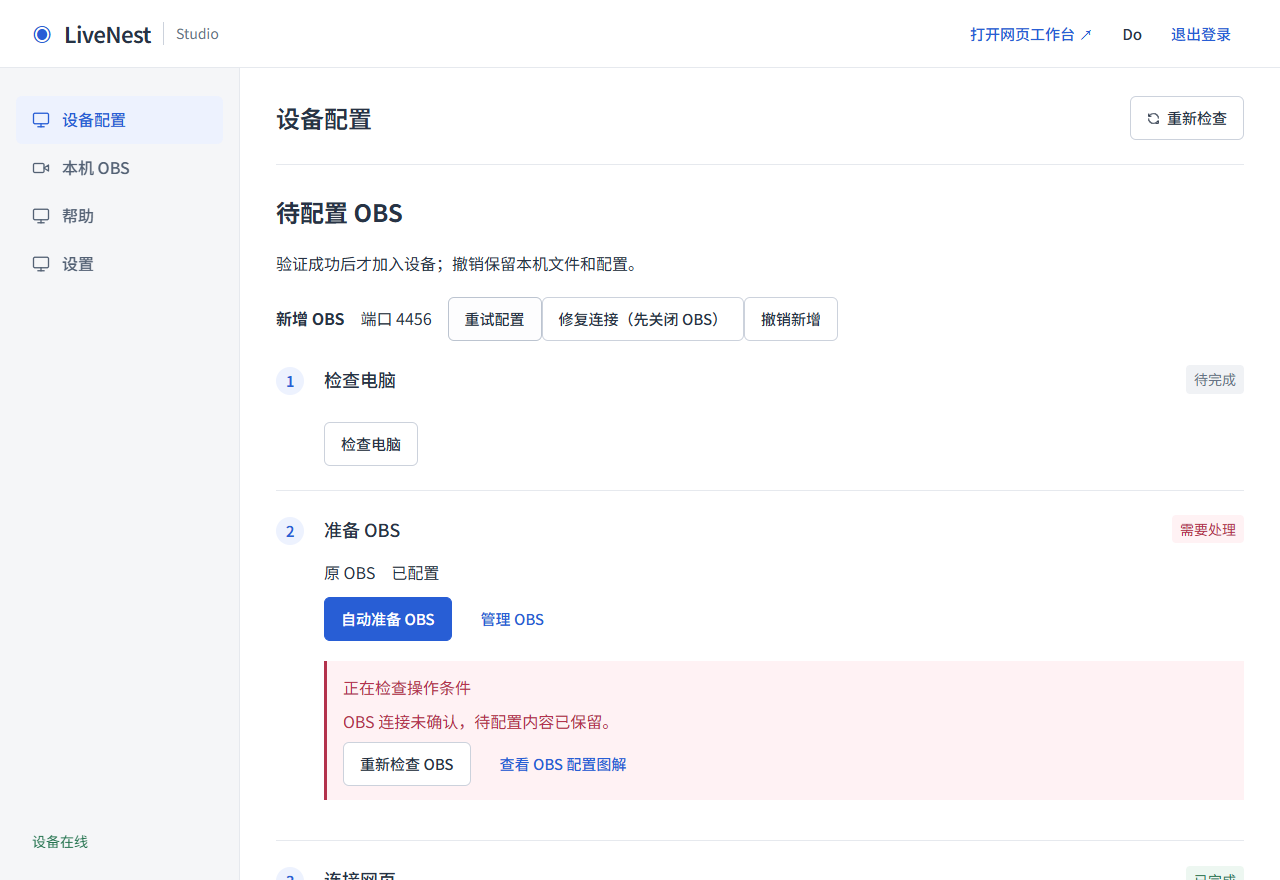
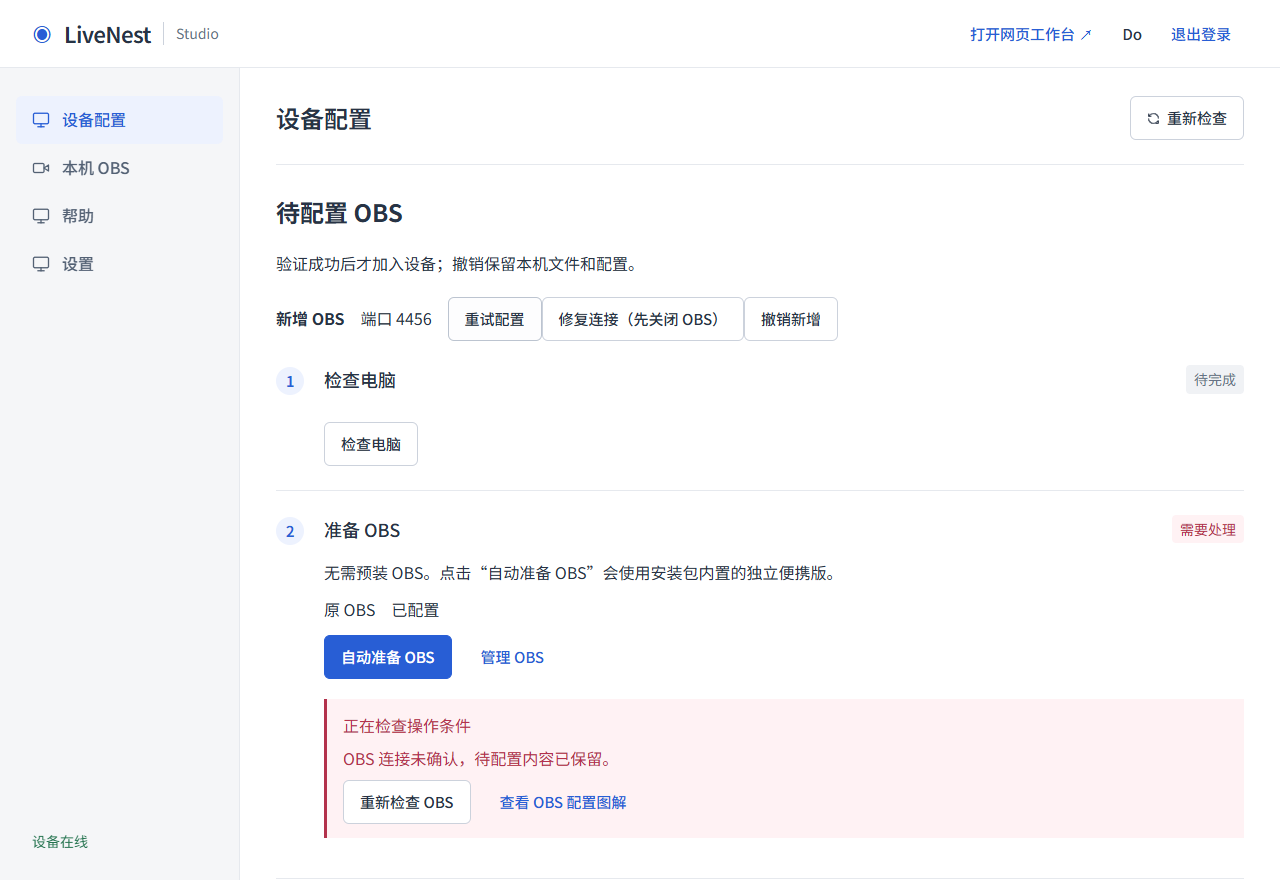
fix(device)：支持电脑移除重配并明确 OBS 缺失提示

diff --git a/src/cloud/agents.ts b/src/cloud/agents.ts
@@ -28,25 +28,30 @@ export async function createPairing(id: string, name: string) {
   });
   return { agentId: id, code, expiresInSeconds: 600 };
 }
-/** Agent 在本地生成并先保存凭据，配对响应丢失后可凭同一凭据重试。 */
+/** Agent 先保存凭据；响应丢失可重试，已撤销身份必须同时验证新邀请与旧凭据。 */
 export async function pairAgent(id: string, code: string, token: string) {
   const store = cloudStore();
   if (!/^[a-f0-9]{64}$/.test(code) || !/^[a-f0-9]{64}$/.test(token)) throw new AppError("AGENT_AUTH", "设备配对失败。", 401);
   return transaction(store, async () => {
     const registry = await store.read<Registry>("agents.json"); const agent = registry?.agents.find(a => a.id === id);
-    if (!agent || agent.revoked) throw new AppError("AGENT_AUTH", "设备配对失败。", 401);
+    if (!agent) throw new AppError("AGENT_AUTH", "设备配对失败。", 401);
+    if (agent.revoked) {
+      if (!matches(code, agent.pairingHash) || (agent.pairingExpires || 0) < Date.now() || (agent.tokenHash && !matches(token, agent.tokenHash))) throw new AppError("AGENT_AUTH", "恢复配对需要新的邀请和原电脑身份，请在原 Windows 账户的 LiveNest 中重试。", 401);
+      agent.revoked = false; agent.tokenHash = digest(token); delete agent.pairingHash; delete agent.pairingExpires;
+      await store.write("agents.json", registry); return { protocol: PROTOCOL };
+    }
     if (matches(token, agent.tokenHash)) return { protocol: PROTOCOL };
     if (agent.tokenHash || !matches(code, agent.pairingHash) || (agent.pairingExpires || 0) < Date.now()) throw new AppError("AGENT_AUTH", "配对码无效或已过期。", 401);
     agent.tokenHash = digest(token); delete agent.pairingHash; delete agent.pairingExpires;
     await store.write("agents.json", registry); return { protocol: PROTOCOL };
   });
 }
-/** 仅续期尚未认领的邀请，不替换已配对设备的凭据。 */
+/** 未认领邀请可续期；已移除设备只发恢复邀请，必须由原凭据认领。 */
 export async function renewPairing(id: string) {
   agentStore(id); const store = cloudStore(); const code = randomBytes(32).toString("hex");
   await transaction(store, async () => {
     const registry = await store.read<Registry>("agents.json"); const agent = registry?.agents.find(a => a.id === id);
-    if (!agent || agent.revoked || agent.tokenHash) throw new AppError("AGENT_BOUND", "只能重新生成尚未使用的配对信息。", 409);
+    if (!agent || (!agent.revoked && agent.tokenHash)) throw new AppError("AGENT_BOUND", "请先移除设备，再生成恢复配对信息。", 409);
     agent.pairingHash = digest(code); agent.pairingExpires = Date.now() + 600_000;
     await store.write("agents.json", registry);
   });
@@ -110,11 +115,21 @@ export async function requireTarget(agentId: string, instanceId: string, online 
 }
 /** 读取由设备上报的状态；调用者须额外标记过期和命令交付状态。 */
 export async function snapshotFor(agentId: string, instanceId: string) { return (await agentStore(agentId).read<Heartbeat>("heartbeat.json"))?.snapshots.find(s => s.instance.id === instanceId); }
-/** 撤销仅阻止新通信；不假装能停止已经离线执行的 OBS。 */
+/** 在派发锁内重新检查撤销，避免请求认证后移除设备的竞争。 */
+export async function assertAgentActive(id: string) {
+  const registry = await cloudStore().read<Registry>("agents.json");
+  if (!registry?.agents.some(a => a.id === id && !a.revoked)) throw new AppError("AGENT_AUTH", "设备已移除，请从网页恢复配对。", 401);
+}
+/** 撤销与派发互斥，过期从未派发的任务；已送达任务和所有配置保留待核对。 */
 export async function revokeAgent(id: string) {
-  const store = cloudStore(); await transaction(store, async () => {
-    const registry = await store.read<Registry>("agents.json"); const agent = registry?.agents.find(a => a.id === id);
-    if (!agent) throw new AppError("AGENT", "设备不存在。", 404);
-    agent.revoked = true; await store.write("agents.json", registry);
-  });
+  const local = agentStore(id); const store = cloudStore(); await transaction(local, async () => {
+    await transaction(store, async () => {
+      const registry = await store.read<Registry>("agents.json"); const agent = registry?.agents.find(a => a.id === id);
+      if (!agent) throw new AppError("AGENT", "设备不存在。", 404);
+      delete agent.pairingHash; delete agent.pairingExpires;
+      agent.revoked = true; await store.write("agents.json", registry);
+    });
+    const queue = await local.read<{ records: import("./tasks").TaskRecord[] }>("tasks.json");
+    if (queue) { for (const task of queue.records) if (task.status === "queued") { task.status = "expired"; task.updatedAt = Date.now(); task.message = "设备已移除，此任务尚未派发。"; } await local.write("tasks.json", queue); }
+  }, "tasks.lock");
 }

diff --git a/desktop/app/page.tsx b/desktop/app/page.tsx
@@ -63,8 +63,8 @@ function Desktop({ logout }: { logout: () => Promise<void> }) {
     {!state && <p role="status">正在读取本机配置…</p>}
     {state && page === "设备配置" && <div className="setup-list">
       {step(1, "检查电脑", computer, <><div className="check-list">{state.checks.map(c => <div key={c.id}><div className="check-row"><span>{c.label}</span><span className={"setup-state " + c.status}>{c.status === "ready" ? "正常" : c.status === "pending" ? "待检查" : "需要处理"}</span></div>{c.message && <p className="check-message">{c.message}</p>}</div>)}</div><button disabled={busy} onClick={() => void act("check")}>检查电脑</button></>)}
-      {step(2, "准备 OBS", obs, <><div>{instances.length ? instances.map(i => <div key={i.id}>{i.name}　{i.initialized ? "已配置" : "尚未完成"}</div>) : "尚未配置 OBS"}</div><div className="desktop-actions"><button className="btn-primary" disabled={busy} onClick={() => void act("prepare")}>{activity?.step === 2 && activity.status === "running" ? "正在准备 OBS…" : "自动准备 OBS"}</button><button className="btn-ghost" onClick={() => setPage("本机 OBS")}>管理 OBS</button></div></>)}
-      {step(3, "连接网页", state.online, <>{!state.paired ? <><button onClick={() => void act("web")}>打开网页，添加直播电脑 ↗</button><label className="field-group">配对信息<textarea value={invitation} onChange={e => setInvitation(e.target.value)} placeholder="粘贴网页生成的配对信息" /></label><button className="btn-primary" disabled={busy || !obs || !invitation.trim()} onClick={() => void act("pair", { invitation })}>连接网页</button></> : <><p>{state.online ? "本机已连接网页工作台" : "设备已配对，等待连接"}</p><button disabled={busy} onClick={() => void act("start")}>重新连接</button></> }</>)}
+      {step(2, "准备 OBS", obs, <><p>无需预装 OBS。点击“自动准备 OBS”会使用安装包内置的独立便携版。</p><div>{instances.length ? instances.map(i => <div key={i.id}>{i.name}　{i.initialized ? "已配置" : "尚未完成"}</div>) : "尚未配置 OBS"}</div><div className="desktop-actions"><button className="btn-primary" disabled={busy} onClick={() => void act("prepare")}>{activity?.step === 2 && activity.status === "running" ? "正在准备 OBS…" : "自动准备 OBS"}</button><button className="btn-ghost" onClick={() => setPage("本机 OBS")}>管理 OBS</button></div></>)}
+      {step(3, "连接网页", state.online, <>{!state.paired ? <><button onClick={() => void act("web")}>打开网页，添加直播电脑 ↗</button><label className="field-group">配对信息<textarea value={invitation} onChange={e => setInvitation(e.target.value)} placeholder="粘贴网页生成的配对信息" /></label><button className="btn-primary" disabled={busy || !obs || !invitation.trim()} onClick={() => void act("pair", { invitation })}>连接网页</button></> : <><p>{state.online ? "本机已连接网页工作台" : "设备已配对，等待连接"}</p><button disabled={busy} onClick={() => void act("start")}>重新连接</button><details><summary>重新配对</summary><p>网页移除后，在“添加直播电脑”中选择原电脑生成恢复邀请。设备 ID：{state.agentId}。原 OBS、素材和频道授权会保留。</p><label className="field-group">恢复配对信息<textarea value={invitation} onChange={e => setInvitation(e.target.value)} placeholder="粘贴原电脑的恢复配对信息" /></label><button disabled={busy || !invitation.trim()} onClick={() => void act("pair", { invitation })}>恢复配对并连接</button></details></> }</>)}
       {step(4, "连接频道", channel, <><div>{fresh.map(s => <div key={s.instance.id}>{s.instance.name}　{s.dashboard.youtube.connected ? s.dashboard.youtube.channel : "尚未授权"}</div>)}</div><button disabled={!state.paired} onClick={() => void act("web")}>前往网页授权 ↗</button></>)}
       {step(5, "准备素材", media, <><div>{fresh.map(s => <div key={s.instance.id}>{s.instance.name}　视频 {s.dashboard.media.videos.length} · 音乐 {s.dashboard.media.music.length}</div>)}</div><button disabled={!state.paired} onClick={() => void act("web")}>前往网页选择素材 ↗</button></>)}
       {step(6, "完成检查", complete, <><p>{complete ? "配置就绪，可以前往网页工作台。" : "完成以上步骤后，重新检查本机与网页连接。"}</p><button className="btn-primary" disabled={!complete} onClick={() => void act("web")}>打开网页工作台 ↗</button></>)}

diff --git a/tests/cloud.test.ts b/tests/cloud.test.ts
@@ -4,7 +4,7 @@ import { mkdtemp, rm, readFile } from "node:fs/promises";
 import path from "node:path";
 import os from "node:os";
 import { beforeEach, afterEach, expect, it, vi } from "vitest";
-import { createPairing, pairAgent, openSession, heartbeatAgent, authenticateAgent, revokeAgent, agentStore } from "@/cloud/agents";
+import { createPairing, pairAgent, openSession, heartbeatAgent, authenticateAgent, revokeAgent, agentStore, renewPairing, listAgents } from "@/cloud/agents";
 import { enqueue, pollTasks, readTask, reportTasks } from "@/cloud/tasks";
 import { claimChannel } from "@/cloud/bindings";
 import { remoteDashboard, target } from "@/server/remote";
@@ -63,6 +63,40 @@ it("revokes device credentials and refuses copied active sessions", async () => 
   expect((await authenticateAgent(request)).id).toBe("studio_a");
   await expect(openSession("studio_a", randomUUID(), [{ id: "main", name: "主 OBS" }])).rejects.toMatchObject({ status: 409 });
   await revokeAgent("studio_a"); await expect(authenticateAgent(request)).rejects.toMatchObject({ status: 401 });
+});
+/** 移除只隔离控制，不清空正在执行的任务、维护凭据和频道归属。 */
+it("removes a PC and restores the original identity without replaying unsent work", async () => {
+  const a = await connect("studio_a"); await claimChannel(destination, "UC_preserved", true);
+  const sent = await enqueue(destination, "alice", { kind: "upload-status", uploadId: randomUUID() }); await pollTasks("studio_a");
+  const queued = await enqueue(destination, "alice", { kind: "control", input: { action: "launch" } });
+  await agentStore("studio_a").write("maintenance.json", { token: "d".repeat(64), activities: { "upload:fixture": 1 } });
+  await revokeAgent("studio_a"); await revokeAgent("studio_a");
+  expect((await listAgents())[0]).toMatchObject({ revoked: true, online: false, instances: [{ id: "main" }] });
+  expect((await readTask("studio_a", queued.id))?.status).toBe("expired");
+  expect((await readTask("studio_a", sent.id))?.status).toBe("delivering");
+  await expect(pollTasks("studio_a")).rejects.toMatchObject({ status: 401 });
+  const invite = await renewPairing("studio_a");
+  await expect(pairAgent("studio_a", invite.code, "c".repeat(64))).rejects.toMatchObject({ status: 401 });
+  await pairAgent("studio_a", invite.code, a.token); await pairAgent("studio_a", invite.code, a.token);
+  expect((await listAgents())[0].revoked).toBe(false);
+  expect((await agentStore("studio_a").read<{ token: string }>("maintenance.json"))?.token).toBe("d".repeat(64));
+  await connect("studio_b"); await expect(claimChannel({ agentId: "studio_b", instanceId: "main" }, "UC_preserved")).rejects.toMatchObject({ status: 409 });
+  expect((await pollTasks("studio_a")).map(t => t.id)).toEqual([sent.id]);
+});
+/** 旧配对码和无有效恢复邀请的旧凭据都不能自动恢复已撤销电脑。 */
+it("requires a fresh unexpired recovery invitation and invalidates it on removal", async () => {
+  const old = await createPairing("studio_a", "A"); const key = "b".repeat(64); await pairAgent("studio_a", old.code, key);
+  await revokeAgent("studio_a"); await expect(pairAgent("studio_a", old.code, key)).rejects.toMatchObject({ status: 401 });
+  const first = await renewPairing("studio_a"); const second = await renewPairing("studio_a");
+  await expect(pairAgent("studio_a", first.code, key)).rejects.toMatchObject({ status: 401 });
+  vi.setSystemTime(Date.now() + 601_000); await expect(pairAgent("studio_a", second.code, key)).rejects.toMatchObject({ status: 401 });
+  const latest = await renewPairing("studio_a"); await revokeAgent("studio_a"); await expect(pairAgent("studio_a", latest.code, key)).rejects.toMatchObject({ status: 401 });
+});
+/** 从未认领的空设备也可移除并恢复，不要求不存在的旧 token。 */
+it("recovers a removed unclaimed invitation without creating duplicate device IDs", async () => {
+  await createPairing("studio_a", "A"); await revokeAgent("studio_a"); const next = await renewPairing("studio_a");
+  await pairAgent("studio_a", next.code, "b".repeat(64)); expect(await listAgents()).toHaveLength(1);
+  await expect(renewPairing("studio_a")).rejects.toMatchObject({ status: 409 });
 });
 it("reserves global channel ownership permanently even if the owning device goes offline", async () => {
   await connect("studio_a"); await connect("studio_b"); await claimChannel(destination, "UC_fixture", false);

diff --git a/electron/obs-setup.ts b/electron/obs-setup.ts
@@ -1,5 +1,5 @@
 /** 初始化自有便携 OBS；重复操作保留已有场景和设置，绝不自动推流。 */
-import { mkdir, readFile, writeFile, access, readdir } from "node:fs/promises";
+import { mkdir, readFile, writeFile, access, readdir, stat } from "node:fs/promises";
 import { createServer } from "node:net";
 import { randomBytes } from "node:crypto";
 import { execFile } from "node:child_process";
@@ -41,19 +41,29 @@ export async function newInstance(settings: Settings): Promise<DesktopInstance> 
 }
 /** 仅生成缺失的默认文件，已有配置保持不变。 */
 async function seed(filename: string, value: string) { await mkdir(path.dirname(filename), { recursive: true }); await writeFile(filename, value, { flag: "wx" }).catch(e => { if (e.code !== "EEXIST") throw e; }); }
+/** 区分安装包资源与手动 OBS 路径；提前报可操作错误，不等待 WebSocket 超时。 */
+export async function requireObsFile(filename: string, message: string) {
+  try { if (!(await stat(filename)).isFile()) throw new Error(); await access(filename); }
+  catch { throw new Error(message); }
+}
 /** 解压固定官方包，便携配置不影响用户其他 OBS。 */
 export async function prepareFiles(instance: DesktopInstance, resources: string, report: (stage: string) => void = () => {}) {
-  if (!instance.managed) return;
+  if (!instance.managed) { await requireObsFile(instance.exe, "找不到手动选择的 obs64.exe，或没有读取权限。请恢复该专用 OBS；电脑未安装 OBS 时可撤销此候选，再点击“自动准备 OBS”，无需预装。"); return; }
   report("正在准备独立 OBS 目录");
-  const root = path.resolve(instance.exe, "../../.."); await mkdir(root, { recursive: true });
+  const root = path.resolve(instance.exe, "../../..");
+  const extracted = await access(path.join(root, ".extracted")).then(() => true, () => false);
+  if (!extracted) await requireObsFile(path.join(resources, "vendor", "obs.zip"), "安装包内置 OBS 资源缺失或不可读，请重新安装完整 LiveNest 安装包后重试。无需另行安装 OBS，已有配置会保留。");
+  await mkdir(root, { recursive: true });
   const owner = path.join(root, ".livenest-owner");
   try { if (await readFile(owner, "utf8") !== instance.id) throw new Error("OBS 目录归属不匹配。"); }
   catch (e) { if ((e as NodeJS.ErrnoException).code !== "ENOENT") throw e; if ((await readdir(root)).length) throw new Error("OBS 目录已有其他文件，拒绝自动接管，请选择独立数据目录。"); await writeFile(owner, instance.id, { flag: "wx" }); }
-  if (!await access(path.join(root, ".extracted")).then(() => true, () => false)) {
+  if (!extracted) {
     report("正在解压 OBS（首次准备可能需要几分钟）");
     await exec("powershell.exe", ["-NoProfile", "-NonInteractive", "-Command", "$ErrorActionPreference='Stop'; Expand-Archive -LiteralPath $env:LN_OBS_ZIP -DestinationPath $env:LN_OBS_ROOT -Force"], { windowsHide: true, timeout: 180_000, env: { ...process.env, LN_OBS_ZIP: path.join(resources, "vendor", "obs.zip"), LN_OBS_ROOT: root } }).catch(e => { throw new Error(e.killed ? "OBS 解压超过 3 分钟，请检查磁盘空间、目录权限和系统负载后重试。" : "OBS 解压失败，请检查数据目录权限、磁盘空间及安装包是否完整后重试。"); });
+    await requireObsFile(instance.exe, "OBS 解压未完成，未找到 obs64.exe。请检查安装包完整性、磁盘空间和安全软件拦截记录后重试；候选配置已保留。");
     await writeFile(path.join(root, ".extracted"), "32.2.2");
   }
+  await requireObsFile(instance.exe, "已配置的便携 OBS 程序缺失或不可读，请恢复原目录中的 obs64.exe，并检查安全软件拦截记录。为保护原场景和授权，没有覆盖已有 OBS。");
   report("正在写入场景、音频和连接配置");
   await seed(path.join(root, "portable_mode.txt"), ""); const base = path.join(root, "config", "obs-studio");
   await seed(path.join(base, "global.ini"), "[General]\nFirstRun=false\nEnableAutoUpdates=false\n[Basic]\nProfile=LiveNest\nProfileDir=LiveNest\nSceneCollection=LiveNest\nSceneCollectionFile=LiveNest\n");

diff --git a/src/app/device-pairing.tsx b/src/app/device-pairing.tsx
@@ -3,12 +3,12 @@
 import { useState } from "react";
 import { api } from "./client-request";
 import type { AgentDescriptor } from "@/shared/remote";
-/** 成员创建邀请并复制到桌面客户端，过期后可重发同一未绑定设备。 */
+/** 成员创建或恢复邀请；已移除电脑沿用原身份，不能被另一台电脑接管。 */
 export default function DevicePairing({ agents }: { agents: AgentDescriptor[] }) {
   const [open, setOpen] = useState(false); const [name, setName] = useState("");
   const [invitation, setInvitation] = useState(""); const [agentId, setAgentId] = useState<string>();
   const [busy, setBusy] = useState(false); const [message, setMessage] = useState("");
-  const paired = !!agents.find(a => a.id === agentId)?.paired;
+  const selected = agents.find(a => a.id === agentId); const paired = !!selected?.paired && !selected.revoked;
   /** 重试复用未使用邀请的设备 ID，已配对时服务器拒绝覆盖。 */
   async function create() {
     setBusy(true); setMessage("");
@@ -16,7 +16,8 @@ export default function DevicePairing({ agents }: { agents: AgentDescriptor[] })
     catch (e) { setMessage((e as Error).message); } finally { setBusy(false); }
   }
   return <div className="device-pairing"><button onClick={() => setOpen(!open)}>添加直播电脑</button>{open && <section className="pairing-panel" aria-label="添加直播电脑">
-    <label className="field-group">设备<select value={agentId || ""} onChange={e => { const id = e.target.value; setAgentId(id || undefined); setName(agents.find(a => a.id === id)?.name || ""); setInvitation(""); setMessage(""); }}><option value="">新电脑</option>{agents.filter(a => !a.revoked && (!a.paired || a.id === agentId)).map(a => <option key={a.id} value={a.id}>{a.name}{a.paired ? "（已配对）" : "（等待配对）"}</option>)}{agentId && !agents.some(a => a.id === agentId) && <option value={agentId}>{name}</option>}</select></label>
+    <label className="field-group">设备<select disabled={busy} value={agentId || ""} onChange={e => { const id = e.target.value; setAgentId(id || undefined); setName(agents.find(a => a.id === id)?.name || ""); setInvitation(""); setMessage(""); }}><option value="">新电脑</option>{agents.filter(a => a.revoked || !a.paired || a.id === agentId).map(a => <option key={a.id} value={a.id}>{a.name}{a.revoked ? "（已移除，可恢复）" : a.paired ? "（已配对）" : "（等待配对）"}</option>)}{agentId && !agents.some(a => a.id === agentId) && <option value={agentId}>{name}</option>}</select></label>
+    {selected?.revoked && <p>在原电脑的 LiveNest“连接网页 → 重新配对”中粘贴邀请。保留原 OBS、素材和授权；另一台电脑请选择“新电脑”。</p>}
     <label className="field-group">电脑名称<input value={name} maxLength={80} onChange={e => setName(e.target.value)} placeholder="导师电脑" /></label>
     <button className="btn-primary" disabled={busy || !name.trim() || paired} onClick={() => void create()}>{paired ? "已配对" : busy ? "正在生成…" : agentId ? "重新生成配对信息" : "生成配对信息"}</button>
     {invitation && <><label className="field-group">配对信息（10 分钟内有效）<textarea readOnly value={invitation} rows={4} /></label><button onClick={() => void navigator.clipboard.writeText(invitation).then(() => setMessage("已复制，请粘贴到本机 LiveNest。"), () => setMessage("请选中配对信息，按 Ctrl+C 复制。"))}>复制配对信息</button></>}

diff --git a/tests/desktop-obs-files.test.ts b/tests/desktop-obs-files.test.ts
@@ -1,0 +1,39 @@
+/** 未安装 OBS、安装资源缺失和解压损坏回归；只操作临时目录，不启动真实 OBS。 */
+import { mkdtemp, mkdir, writeFile, access, rm, readFile } from "node:fs/promises";
+import os from "node:os";
+import path from "node:path";
+import { beforeEach, afterEach, expect, it, vi } from "vitest";
+import { prepareFiles } from "../electron/obs-setup";
+import type { DesktopInstance } from "../src/shared/desktop";
+const f = vi.hoisted(() => ({ exec: vi.fn() }));
+vi.mock("node:child_process", () => ({ execFile: f.exec }));
+vi.mock("../electron/settings", () => ({ environment: () => ({}) }));
+vi.mock("../src/core/obs/process", () => ({ ObsProcessManager: class {} }));
+let root: string; let obsRoot: string; let instance: DesktopInstance;
+/** 合成新电脑没有任何系统 OBS 安装，只提供测试内置压缩包。 */
+beforeEach(async () => {
+  root = await mkdtemp(path.join(os.tmpdir(), "ln-obs-files-")); obsRoot = path.join(root, "obs/main");
+  instance = { id: "main", name: "Main", exe: path.join(obsRoot, "bin/64bit/obs64.exe"), port: 4455, password: "fixture", managed: true, initialized: false };
+  f.exec.mockImplementation((_exe, _args, _opts, done) => done(null, "", ""));
+});
+/** 临时数据清理严格验证目录根与前缀。 */
+afterEach(async () => { if (path.dirname(root) !== os.tmpdir() || !path.basename(root).startsWith("ln-obs-files-")) throw new Error("Unsafe cleanup"); await rm(root, { recursive: true, force: true }); });
+/** 仅占位资源，解压边界由 mock 验证。 */
+async function bundle() { await mkdir(path.join(root, "vendor")); await writeFile(path.join(root, "vendor/obs.zip"), "fixture"); }
+it("explains missing bundled OBS before creating any instance files", async () => {
+  await expect(prepareFiles(instance, root)).rejects.toThrow("无需另行安装 OBS");
+  await expect(access(obsRoot)).rejects.toThrow(); expect(f.exec).not.toHaveBeenCalled();
+});
+it("guides missing manual OBS to automatic preparation without extracting or taking over", async () => {
+  await expect(prepareFiles({ ...instance, managed: false }, root)).rejects.toThrow("自动准备 OBS"); expect(f.exec).not.toHaveBeenCalled();
+});
+it("does not mark a partial extraction as complete and allows the same candidate to retry", async () => {
+  await bundle(); await expect(prepareFiles(instance, root)).rejects.toThrow("解压未完成"); await expect(access(path.join(obsRoot, ".extracted"))).rejects.toThrow();
+  f.exec.mockImplementation((_exe, _args, _opts, done) => { void mkdir(path.dirname(instance.exe), { recursive: true }).then(() => writeFile(instance.exe, "fixture")).then(() => done(null, "", "")); });
+  await prepareFiles(instance, root); expect(await readFile(path.join(obsRoot, ".extracted"), "utf8")).toBe("32.2.2");
+  expect(await readFile(path.join(obsRoot, ".livenest-owner"), "utf8")).toBe("main");
+});
+it("does not overwrite an initialized OBS whose executable has disappeared", async () => {
+  await mkdir(obsRoot, { recursive: true }); await writeFile(path.join(obsRoot, ".extracted"), "32.2.2"); await writeFile(path.join(obsRoot, ".livenest-owner"), "main"); await writeFile(path.join(obsRoot, "existing-config.json"), "keep");
+  await expect(prepareFiles({ ...instance, initialized: true }, root)).rejects.toThrow("没有覆盖已有 OBS"); expect(f.exec).not.toHaveBeenCalled(); expect(await readFile(path.join(obsRoot, "existing-config.json"), "utf8")).toBe("keep");
+});

diff --git a/tests/desktop-candidates.test.ts b/tests/desktop-candidates.test.ts
@@ -3,9 +3,9 @@ import { beforeEach, expect, it, vi } from "vitest";
 import { Manager } from "../electron/manager";
 import { separateCandidates } from "../electron/candidates";
 import type { Settings } from "../electron/settings";
-const f = vi.hoisted(() => ({ write: vi.fn(), rpc: vi.fn(), initialize: vi.fn(), idle: vi.fn(), start: vi.fn(), stop: vi.fn(), ready: vi.fn() }));
+const f = vi.hoisted(() => ({ write: vi.fn(), rpc: vi.fn(), initialize: vi.fn(), idle: vi.fn(), start: vi.fn(), stop: vi.fn(), ready: vi.fn(), fetch: vi.fn() }));
 vi.mock("node:fs/promises", () => ({ mkdir: vi.fn() }));
-vi.mock("electron", () => ({ app: { getVersion: () => "test", getLoginItemSettings: () => ({ openAtLogin: false }) }, dialog: {}, net: {}, shell: {} }));
+vi.mock("electron", () => ({ app: { getVersion: () => "test", getLoginItemSettings: () => ({ openAtLogin: false }) }, dialog: {}, net: { fetch: f.fetch }, shell: {} }));
 vi.mock("../electron/settings", () => ({ SettingsStore: class { write = f.write; } }));
 vi.mock("../electron/agent-host", () => ({ AgentHost: class { child = {}; snapshots = []; lastHeartbeat = 0; rpc = f.rpc; start = f.start; stop = f.stop; ready = f.ready; } }));
 vi.mock("../electron/diagnostics", () => ({ diagnose: vi.fn() }));
@@ -50,4 +50,14 @@ it("migrates old uninitialized entries without changing registered IDs", () => {
   const settings = structuredClone(manager.settings) as Settings; settings.instances.push({ ...settings.instances[0], id: "failed", initialized: false });
   separateCandidates(settings); separateCandidates(settings);
   expect(settings.instances.map(i => i.id)).toEqual(["main"]); expect(settings.candidates?.map(i => i.id)).toEqual(["failed"]);
+});
+/** 恢复邀请仅允许同一设备；网络响应丢失重试也保留原始密钥。 */
+it("allows a paired PC to recover using the same identity and rejects another PC invitation", async () => {
+  manager.settings.identity!.origin = "https://livenest.duckdns.org";
+  const original = structuredClone(manager.settings);
+  const invitation = (agentId: string) => "LN1." + Buffer.from(JSON.stringify({ origin: "https://livenest.duckdns.org", agentId, code: "e".repeat(64) })).toString("base64url");
+  await expect(manager.act("pair", { invitation: invitation("another") })).rejects.toThrow("另一台"); expect(f.fetch).not.toHaveBeenCalled();
+  f.fetch.mockRejectedValueOnce(new Error("network")); await expect(manager.act("pair", { invitation: invitation("test") })).rejects.toThrow("身份已保留");
+  f.fetch.mockResolvedValueOnce(new Response("{}")); await manager.act("pair", { invitation: invitation("test") });
+  expect(manager.settings).toEqual(original); expect(JSON.parse(f.fetch.mock.calls[1][1].body).token).toBe(original.identity!.token);
 });

diff --git a/electron/diagnostics.ts b/electron/diagnostics.ts
@@ -14,7 +14,11 @@ export async function diagnose(settings: Settings, resources: string): Promise<C
   try { const disk = await statfs(settings.dataRoot); checks.push({ id: "disk", label: "磁盘空间", status: disk.bavail * disk.bsize >= 3 * 1024 ** 3 ? "ready" : "error", ...(disk.bavail * disk.bsize < 3 * 1024 ** 3 ? { message: "至少预留 3 GB 用于 OBS，素材需要额外空间。" } : {}) }); }
   catch { checks.push({ id: "disk", label: "磁盘空间", status: "error", message: "无法读取磁盘空间。" }); }
   for (const [id, label, file] of [["node", "内置 Node 与 Agent", "vendor/node.exe"], ["agent", "Agent 程序", "agent/desktop-worker.cjs"], ["obs", "内置 OBS", "vendor/obs.zip"]]) {
-    const exists = await access(path.join(resources, file)).then(() => true, () => false); checks.push({ id, label, status: exists ? "ready" : "missing", ...(!exists ? { message: "安装文件缺失，请重新安装完整 LiveNest 安装包。" } : {}) });
+    const exists = await access(path.join(resources, file)).then(() => true, () => false); checks.push({ id, label, status: exists ? "ready" : "missing", ...(!exists ? { message: "安装文件缺失，请重新安装完整 LiveNest 安装包。" } : id === "obs" ? { message: "已内置便携 OBS，无需在电脑上预装；点击“自动准备 OBS”即可配置。" } : {}) });
+  }
+  for (const instance of settings.instances) {
+    const exists = await access(instance.exe).then(() => true, () => false);
+    checks.push({ id: "obs-file:" + instance.id, label: instance.name + " 程序文件", status: exists ? "ready" : "missing", ...(!exists ? { message: instance.managed ? "该实例的便携 OBS 程序缺失或不可读，请恢复原文件并检查安全软件拦截记录；原配置未删除。" : "手动指定的 OBS 路径不存在或不可读，请恢复该专用 OBS。新电脑可使用内置便携版，无需预装。" } : {}) });
   }
   try { const response = await net.fetch((settings.identity?.origin || "https://livenest.duckdns.org") + "/api/health", { redirect: "error", signal: AbortSignal.timeout(10_000) }); if (!response.ok) throw new Error(); await response.body?.cancel(); checks.push({ id: "cloud", label: "网页服务", status: "ready" }); }
   catch { checks.push({ id: "cloud", label: "网页服务", status: "error", message: "无法连接网页服务，请检查网络；离线帮助仍可使用。" }); }

diff --git a/electron/manager.ts b/electron/manager.ts
@@ -78,13 +78,12 @@ export class Manager {
     await this.agent.rpc("instances", { token: this.settings.maintenance, instances: this.settings.instances.map(({ id, name }) => ({ id, name })) });
     await this.store.write(this.settings); await this.agent.stop(); this.activity.progress("正在等待旧连接结束（约 21 秒）"); await new Promise(r => setTimeout(r, 21_000)); await this.start();
   }
-  /** 邀请必须来自固定正式网站，重试复用已保存的随机设备令牌。 */
+  /** 邀请必须来自固定网站；恢复配对仍使用同一电脑身份，绝不覆盖旧授权。 */
   private async pair(invitation: unknown) {
-    if (this.settings.paired) throw new Error("这台电脑已经配对，不能覆盖设备身份。");
     if (typeof invitation !== "string" || invitation.length > 4096 || !invitation.trim().startsWith("LN1.")) throw new Error("请粘贴网页生成的完整配对信息。");
     let value: z.infer<typeof invitationSchema>;
     try { value = invitationSchema.parse(JSON.parse(Buffer.from(invitation.trim().slice(4), "base64url").toString("utf8"))); } catch { throw new Error("配对信息无效，或不属于 LiveNest 正式网站。"); }
-    if (this.settings.identity && this.settings.identity.agentId !== value.agentId) throw new Error("有尚未完成的配对，请在网页重新生成原设备的邀请。");
+    if (this.settings.identity && this.settings.identity.agentId !== value.agentId) throw new Error("此邀请属于另一台设备。请在网页选择原电脑（设备 ID：" + this.settings.identity.agentId + "）生成恢复配对信息，原身份和授权已保留。");
     this.settings.identity ||= { agentId: value.agentId, origin: value.origin, token: randomBytes(32).toString("hex") }; await this.store.write(this.settings);
     let response: Response;
     try { response = await net.fetch(value.origin + "/api/agent/pair", { method: "POST", headers: { "Content-Type": "application/json" }, body: JSON.stringify({ protocol: 1, agentId: value.agentId, code: value.code, token: this.settings.identity.token }), redirect: "error", signal: AbortSignal.timeout(20_000) }); } catch { throw new Error("无法连接网页服务，请检查网络后重试。配对身份已保留。"); }

diff --git a/tests/remote-routes.test.ts b/tests/remote-routes.test.ts
@@ -8,6 +8,9 @@ import { POST as agentPost, GET as agentGet } from "@/app/api/agent/[...path]/ro
 import { POST as controlPost } from "@/app/api/control/route";
 import { GET as statusGet } from "@/app/api/status/route";
 import { createPairing } from "@/cloud/agents";
+import { DELETE as removeDevice } from "@/app/api/devices/route";
+import { authenticate } from "@/server/access";
+import { AppError } from "@/core/errors";
 vi.mock("@/server/access", () => ({ authenticate: vi.fn(async () => ({ username: "alice" })) }));
 let dir: string;
 /** 创建隔离云端环境，不读取真实 .env.local。 */
@@ -34,4 +37,13 @@ it("does not accept browser-origin Agent requests or implicit cloud targets", as
   const bad = request("session", {}); bad.headers.set("origin", "https://cloud.example.com"); expect((await agentPost(bad, context("session"))).status).toBe(403);
   const response = await statusGet(new Request("https://cloud.example.com/api/status?instanceId=main", { headers: { host: "cloud.example.com" } })); expect(response.status).toBe(400);
   expect((await agentPost(request("session", {}), context("session"))).status).not.toBe(200);
+});
+/** 移除要求成员会话、同源写入标记和明确确认，失败不撤销设备。 */
+it("protects device removal with browser authentication, CSRF and explicit confirmation", async () => {
+  await createPairing("studio_a", "A");
+  const make = (body: unknown = { agentId: "studio_a", confirmed: true }) => new Request("https://cloud.example.com/api/devices", { method: "DELETE", headers: { host: "cloud.example.com", origin: "https://cloud.example.com", "content-type": "application/json", "x-livepilot": "1" }, body: JSON.stringify(body) });
+  const foreign = make(); foreign.headers.set("origin", "https://foreign.example.com"); expect((await removeDevice(foreign)).status).toBe(403);
+  expect((await removeDevice(make({ agentId: "studio_a" }))).status).toBe(400);
+  vi.mocked(authenticate).mockRejectedValueOnce(new AppError("AUTH", "请先登录。", 401)); expect((await removeDevice(make())).status).toBe(401);
+  expect((await removeDevice(make())).status).toBe(200); expect((await removeDevice(make())).status).toBe(200);
 });

diff --git a/src/app/device-remove.tsx b/src/app/device-remove.tsx
@@ -1,0 +1,16 @@
+/** 设备移除的就地确认与失败重试，不把网络异常当作已移除。 */
+"use client";
+import { useRef, useState, type ReactNode } from "react";
+import { api } from "./client-request";
+import type { AgentDescriptor } from "@/shared/remote";
+/** 成功后刷新设备清单；移除不代表 OBS 或直播已停止。 */
+export default function DeviceRemove({ agent, changed, children }: { agent: AgentDescriptor; changed: () => void; children: ReactNode }) {
+  const [confirm, setConfirm] = useState(false); const [busy, setBusy] = useState(false); const [error, setError] = useState(""); const pending = useRef(false);
+  /** 同一设备只允许一次在途移除，明确结果后才关闭确认。 */
+  async function remove() {
+    if (pending.current) return; pending.current = true; setBusy(true); setError("");
+    try { await api("/api/devices", { method: "DELETE", headers: { "Content-Type": "application/json", "X-LivePilot": "1" }, body: JSON.stringify({ agentId: agent.id, confirmed: true }) }); setConfirm(false); changed(); }
+    catch (e) { setError((e as Error).message); } finally { pending.current = false; setBusy(false); }
+  }
+  return <><div className="device-header">{children}<button className="btn-ghost" disabled={busy} onClick={() => setConfirm(true)}>移除电脑</button></div>{confirm && <div className="device-remove-confirm" role="group" aria-label={"移除 " + agent.name}><p>确认从工作台移除「{agent.name}」？网页将无法控制它。移除不会停止 OBS 或直播，请先在本机核对直播状态。</p><p>本机 OBS、素材、授权和频道归属会保留。可在“添加直播电脑”中选择已移除设备，生成恢复配对信息，并在原电脑重新连接。</p><div className="device-remove-actions"><button disabled={busy} onClick={() => void remove()}>{busy ? "正在移除…" : "确认移除"}</button><button disabled={busy} onClick={() => { setConfirm(false); setError(""); }}>取消</button></div>{error && <p role="alert">{error}</p>}</div>}</>;
+}

diff --git a/src/app/console.tsx b/src/app/console.tsx
@@ -8,6 +8,7 @@ import { targetKey, type AgentDescriptor } from "@/shared/remote";
 import { api } from "./client-request";
 import InstanceConsole from "./instance-console";
 import DevicePairing from "./device-pairing";
+import DeviceRemove from "./device-remove";
 import { AlertCircleIcon, DeviceIcon, RefreshIcon, VideoIcon } from "./components/icons";
 
 /** 轮询设备清单；导航使用页内定位，保留实例草稿和正在进行的上传。 */
@@ -88,7 +89,7 @@ export default function Console() {
           const agentInstances = instances.filter(i => i.agentId === agent.id);
           return (
             <section className="device-section" id={"device-" + agent.id} key={agent.id} aria-label={agent.name}>
-              <div className="device-header"><h2><DeviceIcon />{agent.name}<span className={"device-state " + (agent.online ? "online" : "")}>{agent.maintenance ? "维护中" : agent.paired === false ? "等待配对" : agent.online ? "在线" : "离线"}</span></h2></div>
+              <DeviceRemove agent={agent} changed={() => setRefreshKey(v => v + 1)}><h2><DeviceIcon />{agent.name}<span className={"device-state " + (agent.online ? "online" : "")}>{agent.maintenance ? "维护中" : agent.paired === false ? "等待配对" : agent.online ? "在线" : "离线"}</span></h2></DeviceRemove>
               <div className="instance-grid">{agentInstances.map(instance => <InstanceConsole key={targetKey(instance)} instance={instance} onChannelChange={updateChannel} />)}</div>
               {!agentInstances.length && <p className="device-empty">设备尚未上报直播实例。</p>}
             </section>
